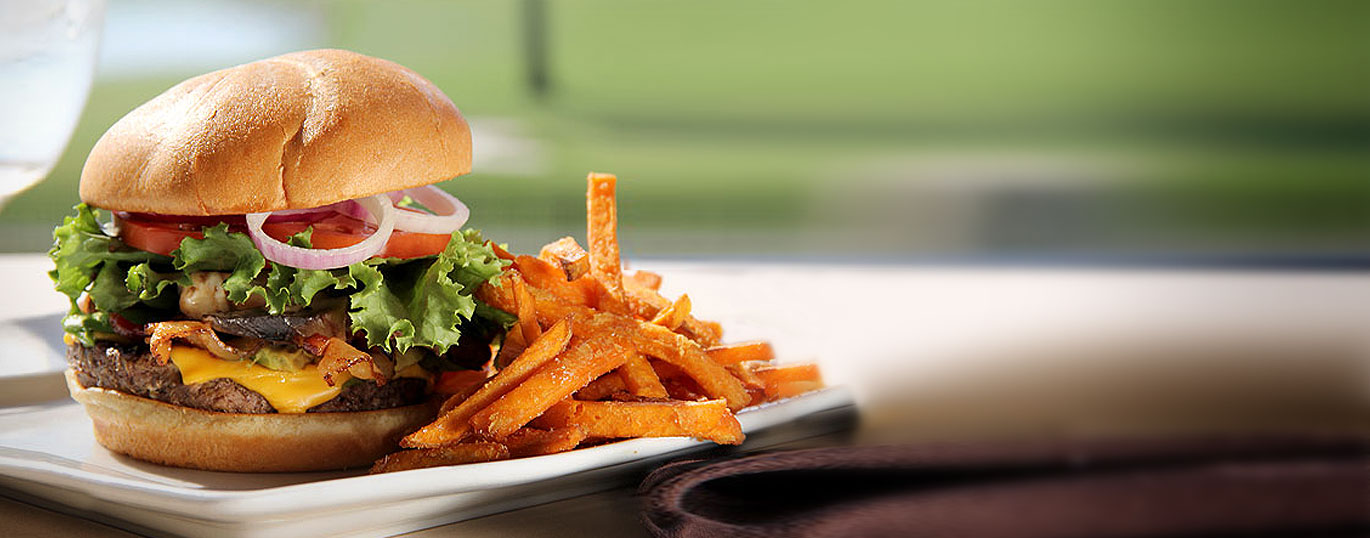
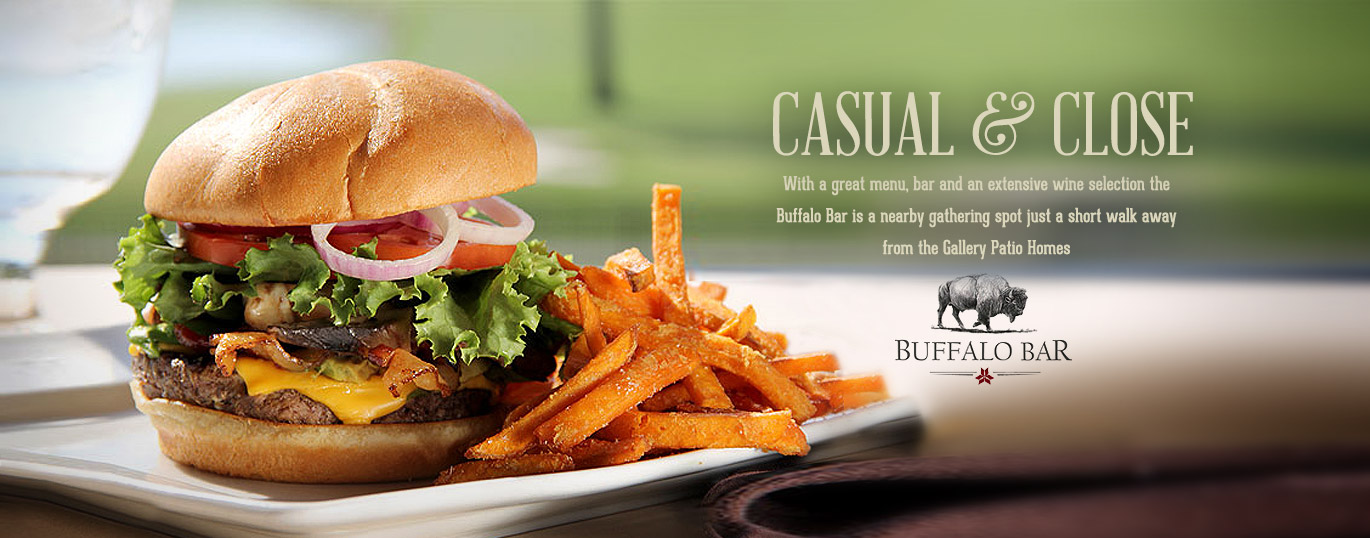
updated section2 area with baked in images

diff --git a/gallery/index.html b/gallery/index.html
@@ -51,28 +51,8 @@
 				<!--section2-->
 				<div class="section2">
 					<div class="owl-carousel three">
-						<div class="item">
-							<img src="img/food-slide1.jpg"/>
-							<div class="wrapper">
-								<div class="left"></div>
-								<div class="right">
-									<h1>exquisite dining</h1>
-									<p>Shangri-La’s Summit Restaurant is just a short walk away from the Gallery and offers Grand Lake’s finest dining experience. With unbelievable views from the highest point on Monkey Island, it is the perfect complement to the golf & lake lifestyle.</p>
-									<img class="center-block" src="img/logo-summit.png"/>
-								</div>
-							</div>
-						</div>
-						<div class="item">
-							<img src="img/food-slide2.jpg"/>
-							<div class="wrapper">
-								<div class="left"></div>
-								<div class="right">
-									<h1 style="width: 120%; margin: 64px 0px 0px -20%;">casual elegance</h1>
-									<p style="width: 110%; margin: 12px 0px 0px -10%;" class="white">With a great menu, bar and an extensive wine selection the Buffalo Bar is a gathering spot for golfers or friends who want to unwind in at one of the most beautiful vistas on Monkey Island</p>
-									<img style="margin: 12px 0px 0px 22%;" clas="center-block" src="img/logo-buffalo.png"/>
-								</div>
-							</div>
-						</div>
+						<div class="item"><img src="img/food-slide1.jpg"/></div>
+						<div class="item"><img src="img/food-slide2.jpg"/></div>
 					</div>
 				</div>
 				<img src="img/slide-shadow.png"/>
